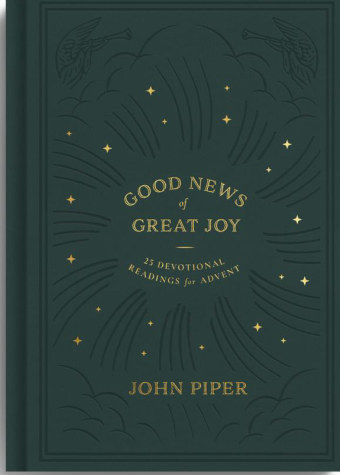
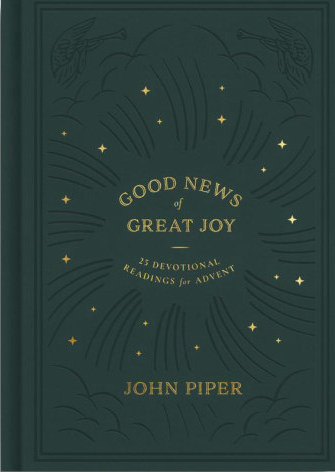
Studio demo: trim the real gray borders off covers, fill completely
Edge-pixel sampling caught what eyeballing missed (a gray border is invisible
against a white image viewer): Does God Desire had a ~14px light-gray border on
its left and bottom, and Good News had a similar edge. A pure-white trim had
skipped them. Re-trimmed by neutral-light edge detection so the covers fill the
tile completely with no border. Verified against a navy background.

Bumped the cover cache version to v3 so the corrected images deploy fresh.

diff --git a/studio.html b/studio.html
@@ -396,22 +396,22 @@
                 <div class="scene browse">
                   <div class="demo-h"><span class="demo-k">Your library</span><span class="demo-hint">Pick a source to repurpose</span></div>
                   <div class="carousel"><div class="carousel-track">
-                    <span class="bk"><img src="assets/cover-12-ways-phone.jpg?v=2" alt="12 Ways Your Phone Is Changing You by Tony Reinke" width="116" height="174" loading="lazy"></span>
-                    <span class="bk"><img src="assets/cover-coronavirus-christ.jpg?v=2" alt="Coronavirus and Christ by John Piper" width="116" height="174" loading="lazy"></span>
-                    <span class="bk lead"><img src="assets/cover-ask-pastor-john.jpg?v=2" alt="Ask Pastor John by Tony Reinke" width="116" height="174" loading="lazy"></span>
-                    <span class="bk"><img src="assets/cover-does-god-desire.jpg?v=2" alt="Does God Desire All to Be Saved? by John Piper" width="116" height="174" loading="lazy"></span>
-                    <span class="bk"><img src="assets/cover-good-news-joy.jpg?v=2" alt="Good News of Great Joy by John Piper" width="116" height="174" loading="lazy"></span>
-                    <span class="bk" aria-hidden="true"><img src="assets/cover-12-ways-phone.jpg?v=2" alt="" width="116" height="174" loading="lazy"></span>
-                    <span class="bk" aria-hidden="true"><img src="assets/cover-coronavirus-christ.jpg?v=2" alt="" width="116" height="174" loading="lazy"></span>
-                    <span class="bk" aria-hidden="true"><img src="assets/cover-does-god-desire.jpg?v=2" alt="" width="116" height="174" loading="lazy"></span>
-                    <span class="bk" aria-hidden="true"><img src="assets/cover-good-news-joy.jpg?v=2" alt="" width="116" height="174" loading="lazy"></span>
+                    <span class="bk"><img src="assets/cover-12-ways-phone.jpg?v=3" alt="12 Ways Your Phone Is Changing You by Tony Reinke" width="116" height="174" loading="lazy"></span>
+                    <span class="bk"><img src="assets/cover-coronavirus-christ.jpg?v=3" alt="Coronavirus and Christ by John Piper" width="116" height="174" loading="lazy"></span>
+                    <span class="bk lead"><img src="assets/cover-ask-pastor-john.jpg?v=3" alt="Ask Pastor John by Tony Reinke" width="116" height="174" loading="lazy"></span>
+                    <span class="bk"><img src="assets/cover-does-god-desire.jpg?v=3" alt="Does God Desire All to Be Saved? by John Piper" width="116" height="174" loading="lazy"></span>
+                    <span class="bk"><img src="assets/cover-good-news-joy.jpg?v=3" alt="Good News of Great Joy by John Piper" width="116" height="174" loading="lazy"></span>
+                    <span class="bk" aria-hidden="true"><img src="assets/cover-12-ways-phone.jpg?v=3" alt="" width="116" height="174" loading="lazy"></span>
+                    <span class="bk" aria-hidden="true"><img src="assets/cover-coronavirus-christ.jpg?v=3" alt="" width="116" height="174" loading="lazy"></span>
+                    <span class="bk" aria-hidden="true"><img src="assets/cover-does-god-desire.jpg?v=3" alt="" width="116" height="174" loading="lazy"></span>
+                    <span class="bk" aria-hidden="true"><img src="assets/cover-good-news-joy.jpg?v=3" alt="" width="116" height="174" loading="lazy"></span>
                   </div></div>
                 </div>
 
                 <!-- Scene 3-5: the working view -->
                 <div class="scene work">
                   <div class="src-chip">
-                    <span class="sc-cover"><img src="assets/cover-ask-pastor-john.jpg?v=2" alt="Ask Pastor John by Tony Reinke" width="48" height="72"></span>
+                    <span class="sc-cover"><img src="assets/cover-ask-pastor-john.jpg?v=3" alt="Ask Pastor John by Tony Reinke" width="48" height="72"></span>
                     <span class="sc-meta"><b>Ask Pastor John</b><span>Tony Reinke · Foreword by John Piper</span></span>
                     <span class="sc-badge"><i></i>Source loaded</span>
                   </div>
